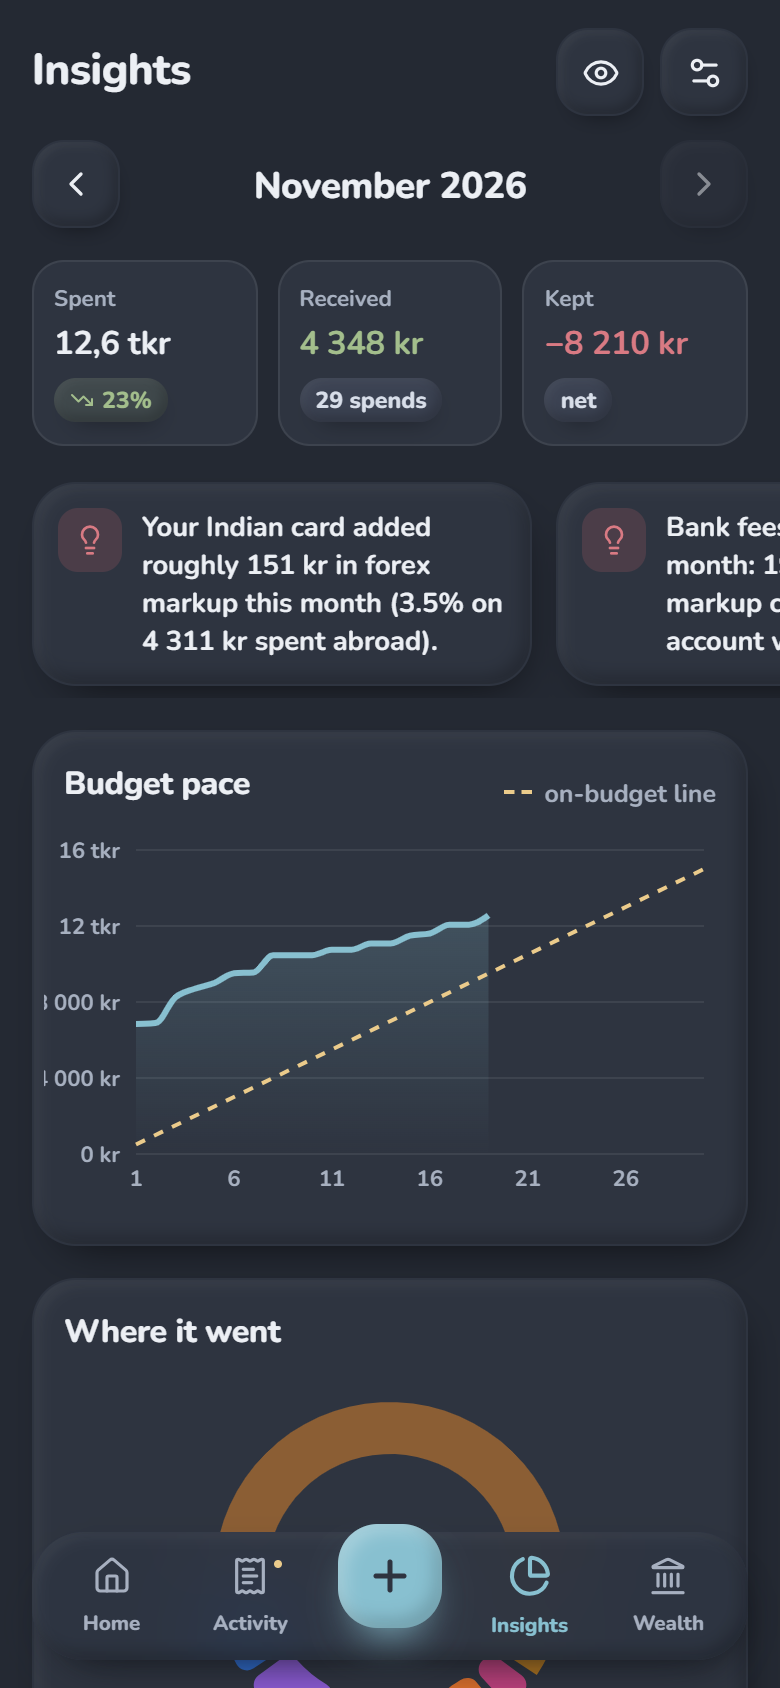
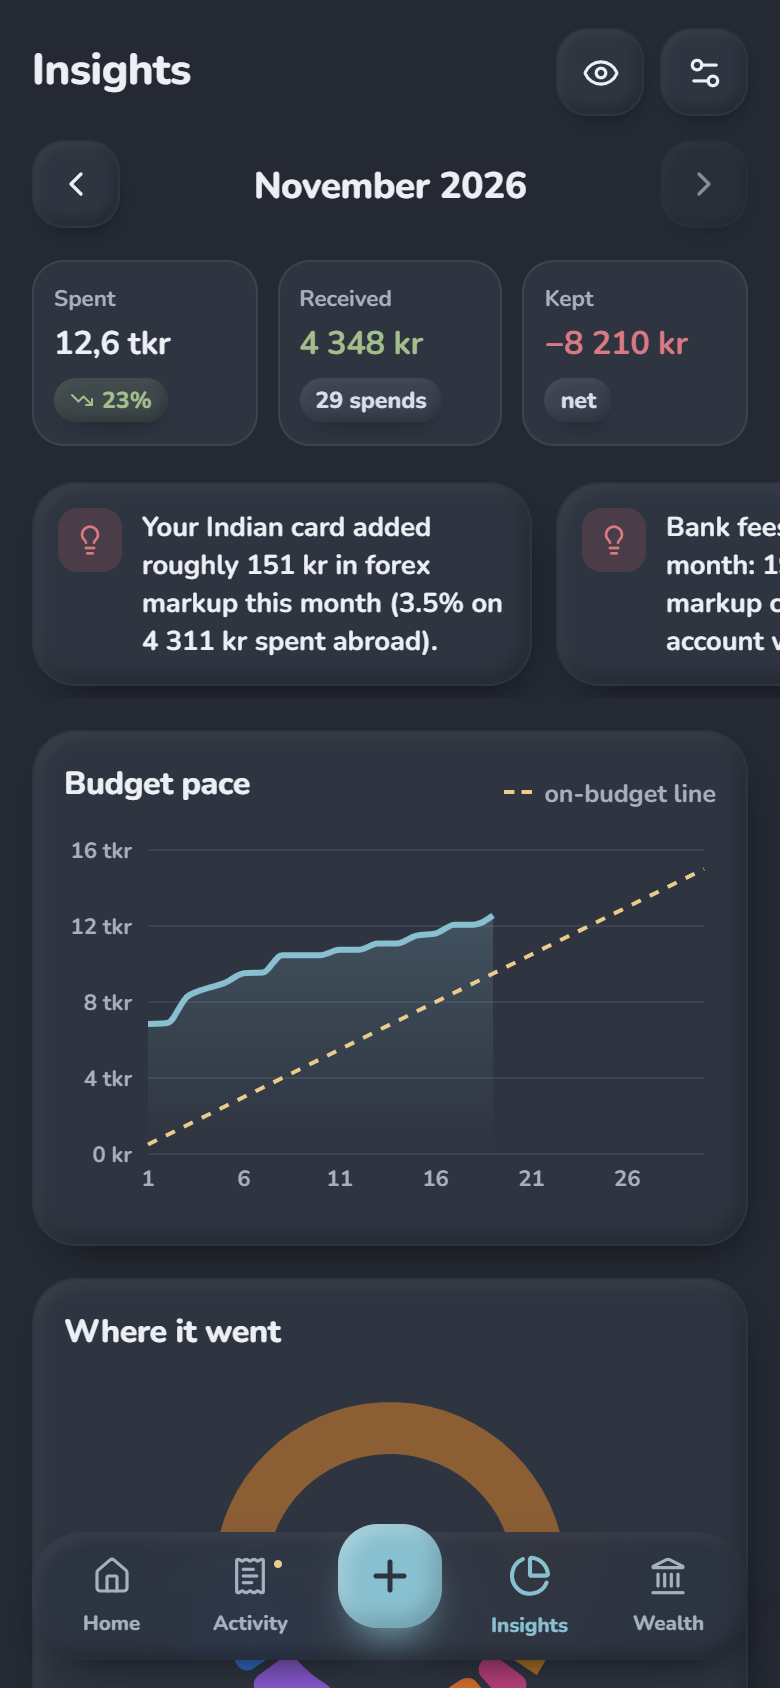
Cleaner Readme

diff --git a/frontend/src/pages/InsightsPage.tsx b/frontend/src/pages/InsightsPage.tsx
@@ -10,7 +10,7 @@ import { getSetting, useSetting } from '../lib/settings';
 import { CATEGORY_META, categoryMeta, effectiveCategory, isExpense } from '../lib/categories';
 import { daysInMonth, daysUntil, inMonth, monthLabel, pct } from '../lib/format';
 import type { Subscription, Transaction } from '../lib/types';
-import { money, moneyCompact, amt, CURRENCY_CODES } from '../lib/money';
+import { money, moneyCompact, amt, CURRENCY_CODES, displayCurrency } from '../lib/money';
 
 function monthStats(transactions: Transaction[], y: number, m: number) {
   const days = daysInMonth(y, m);
@@ -48,6 +48,14 @@ function ChartTip({ active, payload, label }: { active?: boolean; payload?: { va
       {day && day.value > 0 && <div style={{ opacity: 0.8 }}>{money(day.value)} that day</div>}
     </div>
   );
+}
+
+
+/** Short y-axis labels that always fit: "8 tkr" rather than "8 000 kr". */
+function axisTick(v: number) {
+  const cur = displayCurrency().toUpperCase();
+  if (Math.abs(v) >= 1000 && ['SEK', 'NOK', 'DKK'].includes(cur)) return `${String(Math.round(v / 100) / 10).replace('.', ',')} tkr`;
+  return moneyCompact(v);
 }
 
 export default function InsightsPage({ hidden }: { hidden: boolean }) {
@@ -211,7 +219,7 @@ export default function InsightsPage({ hidden }: { hidden: boolean }) {
               </defs>
               <CartesianGrid vertical={false} stroke="var(--line)" />
               <XAxis dataKey="d" tickLine={false} axisLine={false} tick={{ fill: 'var(--ink-3)', fontSize: 11, fontWeight: 700 }} interval={Math.ceil(days / 6) - 1} />
-              <YAxis tickLine={false} axisLine={false} width={46} tick={{ fill: 'var(--ink-3)', fontSize: 11, fontWeight: 700 }} tickFormatter={v => moneyCompact(v)} />
+              <YAxis tickLine={false} axisLine={false} width={52} tick={{ fill: 'var(--ink-3)', fontSize: 11, fontWeight: 700 }} tickFormatter={axisTick} />
               <Tooltip content={<ChartTip />} cursor={{ stroke: 'var(--line-strong)' }} />
               {budget > 0 && <Line type="linear" dataKey="pace" stroke="var(--marigold)" strokeDasharray="5 5" strokeWidth={2} dot={false} isAnimationActive={false} />}
               <Area type="monotone" dataKey="cum" stroke="var(--jade)" strokeWidth={3} fill="url(#cumFill)" connectNulls={false} animationDuration={900} />

diff --git a/README.md b/README.md
@@ -15,13 +15,13 @@
 ![Cloudflare Pages](https://img.shields.io/badge/Cloudflare_Pages-f38020?style=for-the-badge&logo=cloudflare&logoColor=white)
 ![PWA](https://img.shields.io/badge/Installable_PWA-4a6c96?style=for-the-badge&logo=pwa&logoColor=white)
 
-[Features](#-features) · [Screenshots](#-screenshots) · [How it works](#-how-it-works) · [Tech](#-tech-stack) · [Run it](#-run-it-locally)
+[Features](#features) · [Screenshots](#screenshots) · [How it works](#how-it-works) · [Tech](#tech-stack) · [Run it](#run-it-locally)
 
 </div>
 
 <br />
 
-## ✨ Why I built it
+## Why I built it
 
 Grocery runs with roommates always ended in the same argument: *"I don't eat mushrooms, why am I paying for them?"* Splitting the total equally is unfair, and splitting by hand is tedious.
 
@@ -29,7 +29,7 @@ Budget Splitter reads the receipt, lets everyone tick only what's theirs, and se
 
 <br />
 
-## 📱 Screenshots
+## Screenshots
 
 <div align="center">
 <table>
@@ -48,47 +48,47 @@ Budget Splitter reads the receipt, lets everyone tick only what's theirs, and se
 
 <br />
 
-## 🌟 Features
+## Features
 
-### 🧾 Split receipts item by item
+### Split receipts item by item
 - **Scan, paste or type** a receipt. Gemini vision reads photos, and Swedish receipt text (ICA, Willys, Lidl, Coop) is parsed on the device.
 - **Scan several receipts at once**, then merge them into **one bill** or go through them as **separate bills**.
 - An **items × people grid** shows every share live. Tap a name to add or remove that person on every item.
 - **Fair to the öre:** uneven splits ("2 of 3 packs"), discounts follow what each person bought, bags are shared only by people who bought something, and bottle deposits follow their drink. Totals always match the receipt.
 
-### 🤝 Shared bills between accounts
+### Shared bills between accounts
 - **Connect by email.** Friend requests are accepted in the app.
 - **Send a bill into a friend's app.** They review it, untick anything that isn't theirs, and accept or decline.
 - **The payer approves every change**, with a before-and-after for everyone it affects, so nobody can quietly lower their own share.
 - **Paid takes both sides:** "I've paid" only counts once the payer confirms it.
 - Friends without an account still get a WhatsApp-ready message or a tick-your-items link.
 
-### 🇸🇪 Built for life abroad
+### Built for life abroad
 - **Multi-currency:** totals are shown in SEK, every payment keeps its own currency, and live ECB exchange rates are used.
 - **Bank SMS log themselves:** an iPhone Shortcut or Android automation sends each SMS to the app, which picks out the foreign amount, the merchant and the card fees.
 - A **forex insight** shows what your Indian card's markup really cost you this month.
 - **Swedish merchants are recognised automatically**, from ICA to SL to Systembolaget.
 
-### 📊 Everyday money
+### Everyday money
 - One-tap category review, merchant rules, budgets with per-category caps, and a budget-pace chart.
 - Bills and subscriptions, savings goals, fixed deposits, debts, and net worth.
 
-### 👥 Accounts & privacy
+### Accounts & privacy
 - Invite-only accounts, with an **admin portal** to add, pause and reset people.
 - **Row Level Security:** everyone sees only their own data, and the admin never sees amounts.
 - An optional per-device PIN lock and a hide-balances mode.
 
-### 🎨 Design
+### Design
 - **"Sorbet Nord":** puffy pastel clay shapes on Nord frost blues, in matching **light and dark** themes (choose Auto, Light or Dark).
 - Spring physics throughout: squishy presses, drag-to-dismiss sheets and number roll-ups, and all of it respects *reduce motion*.
 
 <br />
 
-## 🔄 How it works
+## How it works
 
 ```mermaid
 flowchart LR
-    A[📷 Receipt photo<br/>or text] --> B[Items read<br/>Gemini · on-device parser]
+    A[Receipt photo<br/>or text] --> B[Items read<br/>Gemini · on-device parser]
     B --> C[Grid: who had what]
     C --> D{Friend has<br/>the app?}
     D -- yes --> E[Bill lands in<br/>their app]
@@ -102,7 +102,7 @@ All sharing goes through one server endpoint (`/api/shared`) that enforces the r
 
 <br />
 
-## 🛠 Tech stack
+## Tech stack
 
 | Layer | Tools |
 |---|---|
@@ -115,7 +115,7 @@ All sharing goes through one server endpoint (`/api/shared`) that enforces the r
 
 <br />
 
-## 🚀 Run it locally
+## Run it locally
 
 **Just want to look around?** Demo mode needs no database. It loads two months of sample data and pretend roommates who answer your bills.
 
@@ -171,7 +171,7 @@ docs/                   setup guides, screenshots
 
 <br />
 
-## 🔒 Security
+## Security
 
 - **Sign-in** uses Supabase Auth, and **data access** is limited by Row Level Security on every table.
 - **The service-role key stays on the server** (Cloudflare encrypted variables) and never ships in the app.
@@ -183,7 +183,7 @@ Details: [supabase/SECURITY.md](supabase/SECURITY.md).
 
 <div align="center">
 
-Made in Sweden 🇸🇪 with a little help from 🇮🇳
+Made in Sweden, with an Indian bank card
 
 <sub>Personal project · built for portfolio demonstration</sub>
 
